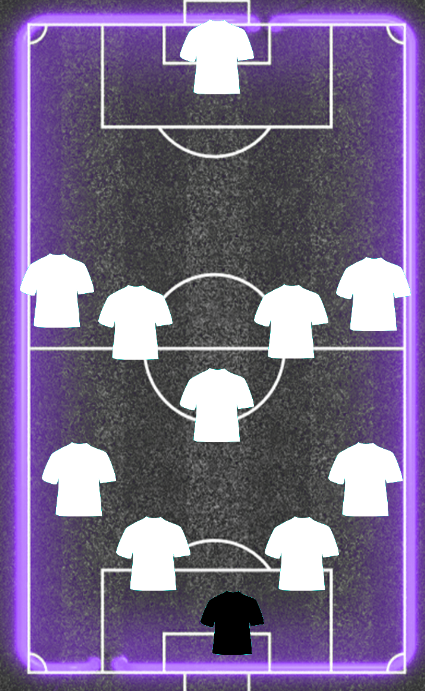
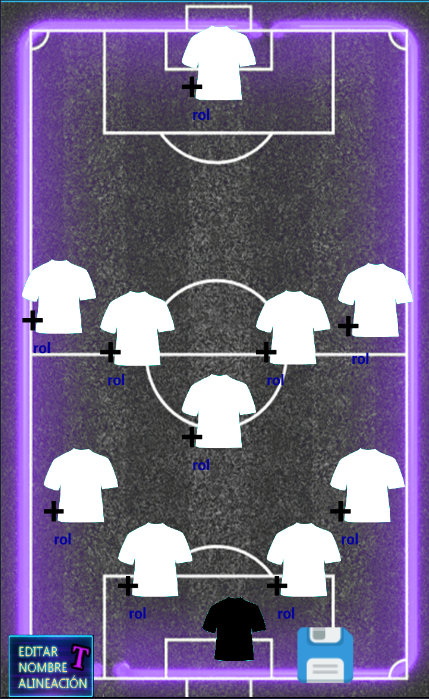
Nuevas imagenes

diff --git a/página_imagenes/images.html b/página_imagenes/images.html
@@ -40,12 +40,49 @@
     <br>
     <br>
     <div class="container-fluid" >
+      <div class="row">
+      <div class="col-sm-2">
+      <IMG SRC="451(2).png" width=200 align="left">
+      </div>
+      <div class="col-sm-10" align="left">
+      <FONT COLOR="white"><p></p>
+        <p> JUGADA 451</p>
+      <p>Esquema tactico muy equilibrado que cuenta con una linea de: </p>
+      <p>- 4 defensas</p>
+      <p>- *5 mediocampistas</p>
+      <p>- 3 a la misma altura</p>
+      <p>- 2 en banda*</p>
+      <p>- Un delantero centro</FONT>
+      </div>
+      
+
+  </div>
+  <div class="row">
+  <div class="col-sm-10"  align="right">
+  <FONT COLOR="white"><br><br>
+  <p> JUGADA 4141</p>
+  <p>Esquema tactico muy equilibrado que cuenta con una linea de: </p>
+  <p>- 4 defensas</p>
+  <p>- 1 mediocampista ofensivo</p>
+  <p>- 4 mediocampistas todos a la misma altura</p>
+  <p>- 2 en banda uno de cada lado 
+  <p>- Un delantero centro.
+  </FONT COLOR>
+  </div>
+  <div class="col-sm-2">
+  <img src="4141.png"width=200>
+  </div>
+  </div>
+  </div>
+
+  <div class="container-fluid" >
     <div class="row">
     <div class="col-sm-2">
     <IMG SRC="433(2).png" width=200 align="left">
     </div>
     <div class="col-sm-10" align="left">
-    <FONT COLOR="white"><p></p>
+    <FONT COLOR="white">
+      <p> JUGADA 433</p>
     <p>Esquema tactico muy equilibrado que cuenta con una linea de: </p>
     <p>- 4 defensas</p>
     <p>- 3 mediocampista</p>
@@ -56,19 +93,38 @@
 </div>
 <div class="row">
 <div class="col-sm-10"  align="right">
-<FONT COLOR="white"><br><br><p>Esquema tactico muy equilibrado que cuenta con una linea de: </p>
+<FONT COLOR="white"><br><br>
+  <p> JUGADA 41212</p>
+<p>Esquema tactico muy equilibrado que cuenta con una linea de: </p>
 <p>- 4 defensas</p>
-<p>- 3 mediocampista</p>
-<p>- 2 a la misma altura y un contencion</p>
-<p>- 2 extremos pegados a banda uno de cada lado y un delantero centro
+<p>- Un mediocampista defensivo</p>
+<p>- 2 mediocampistas interiores todos a la misma altura</p>
+<p>- Un mediocampista ofensivo
+<p>- 2 delanteros centro
 </FONT COLOR>
 </div>
 <div class="col-sm-2">
-<img src="4141.png"width=200>
+<img src="41212(2).png"width=200>
 </div>
 </div>
 </div>
-<Br>
+
+<div class="container-fluid" >
+  <div class="row">
+  <div class="col-sm-2">
+  <IMG SRC="MENU_PRINCIPAL_ALINEACIONES.png" width=200 align="left">
+  </div>
+  <div class="col-sm-10" align="left">
+  <FONT COLOR="white">
+  <p>MENU PRINCIPAL DE ALINEACIONES</p>
+  <p>- Aquí se puede crear una nueva jugada</p>
+  <p>- o editar una jugada que con</p>
+  <p>- anterioridad fue guardada</p>
+</FONT>
+</div>
+<p> S</p>
+</div>
+  <hr>
   <div class="container-fluid" >
   <div class="row">
   <div class="col-sm-2">
@@ -91,7 +147,6 @@
 </div>
 </div>
 </div>
-
 
 <div class="container-fluid" >
 <div class="row">
